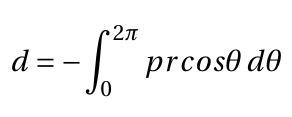
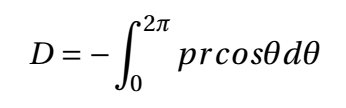
Experiment Updated

Changed region(s): [[0.0308, 0.1389, 0.4932, 0.8611], [0.4932, 0.3611, 0.9863, 0.6667]]

diff --git a/experiment/simulation/index.html b/experiment/simulation/index.html
@@ -38,6 +38,7 @@ LinkedIn: https://in.linkedin.com/in/akraonandula/
       <div class="row">
         <div class="col-md-1"></div>
         <div class="col-md-10">
+          <p class="text-center border border-3 border-primary p-3 h3 my-5 text-primary"> This simulation works best on Desktop / Laptop browsers only. It may not suitable for Mobile / Tablet browsers </h3>  </p>
             <p class="text-center"> <h3 class=" my-5 text-primary"> Instructions: </h3>
               <ul class="">
                 <li class="h5 text-secondary"> Before starting the process read the instructions completely</li>

diff --git a/experiment/procedure.md b/experiment/procedure.md
@@ -30,7 +30,7 @@
 ##### Fig.2 - Windtunnel with Diffuser, Test-section, VFD and Contraction cone highlighted.
 </center> 
 
-An open return low subsonic suction-type atmospheric wind tunnel generates the flow in which the model will be mounted. Wind tunnel components are a honeycomb section, a settling chamber, a contraction cone, a test section, a diffuser, a suction fan, and a motor. The air from the atmosphere enters the tunnel through the honeycomb section. Honeycomb reduces the turbulence from the atmosphere by breaking down the disturbances and stretching the flow due to its structure. The flow then goes through the settling chamber, which has two wire meshes, further reducing incoming turbulence. The settling chamber has a large volume which further dissipates any disturbances. The contraction cone increases the velocity by reducing area at the expense of pressure. There are two pressure tappings in the wind tunnel; one at the settling chamber, which gives stagnation or total pressure, and the second at the end of the contraction cone, which gives static pressure. The difference in these two pressure is used to calculate the inlet velocity of the test section. The test section is a constant cross-section area where we achieve a one-dimensional, steady, and uniform flow. Models are mounted in this part for the test. Diffuser has two functions: one, it reduces the velocity and increases the pressure leading to the suction fan, which results in less work required by the fan; and two, it provides a gradual decrease in velocity or increase in pressure after the test section, which prevents any flow separation and backflow. The suction fan creates the necessary pressure difference required to maintain the airflow. The fan is run by the motor, which can run at different rpm to create a range of velocity. The rpm of the motor is controlled by a variable frequency drive (VFD). 
+An open return, low subsonic, suction-type atmospheric wind tunnel generates the flow in which the model will be mounted. Wind tunnel components are a honeycomb section, a settling chamber, a contraction cone, a test section, a diffuser, a suction fan, and a motor. The air from the atmosphere enters the tunnel through the honeycomb section. Honeycomb reduces the turbulence from the atmosphere by breaking down the disturbances in the flow, due to its structure. The flow then goes through the settling chamber, which has two wire meshes, further reducing incoming turbulence. The settling chamber has a large volume, which further dissipates any disturbances. The contraction cone increases the velocity by reducing the area at the expense of pressure. There are two pressure tappings in the wind tunnel: one at the settling chamber, which gives stagnation or total pressure, and the second at the end of the contraction cone, which gives static pressure. The difference in these two pressures is used to calculate the inlet velocity of the test section. The test section is a constant cross-sectional area where we achieve a one-dimensional, steady, and uniform flow. Models are mounted in this part for the test. Diffuser has two functions: one, it reduces the velocity and increases the pressure leading to the suction fan, which results in less work required by the fan; and two, it provides a gradual decrease in velocity or increase in pressure after the test section, which prevents any flow separation and backflow. The suction fan creates the necessary pressure difference required to maintain the airflow. The fan is run by the motor, which can run at different rpm to create a range of velocities. The rpm of the motor is controlled by a variable frequency drive (VFD).  
 
   
 
@@ -46,7 +46,7 @@ An open return low subsonic suction-type atmospheric wind tunnel generates the f
 </center>
   
 
-A circular cylinder of diameter 30mm is used as the model for this experiment. The cylinder consists of one pressure port. It is placed in the test section and can be rotated at any required angle. The pressure port is connected to the pressure transducer, and the model is rotated to get values at different angles.
+A circular cylinder of diameter 30 mm is used as the model for this experiment. The cylinder consists of one pressure port. It is placed in the test section and can be rotated at any required angle. The pressure port is connected to the pressure transducer, and the model is rotated to get values at different angles.
 
   
 
@@ -63,12 +63,12 @@ A circular cylinder of diameter 30mm is used as the model for this experiment. T
 
   
 
-An electronic pressure measurement instrument is used to measure pressure coming from the cylinder model. Here we have used a Scanivalve-made digital sensor array (DSA 3217) which is a differential pressure measurement device; it has 16 temperature-compensated piezoresistive sensors with a pneumatic calibration valve, RAM, 16-bit A/D converter, and a microprocessor in a compact, self-contained module. It outputs pressure values in the user-defined engineering unit directly. We can measure 16 pressures simultaneously using this device. It uses an Ethernet connection for communication with any computer.
+An electronic pressure measurement instrument is used to measure pressure coming from the cylinder model. Here we have used a Scanivalve made digital sensor array (DSA 3217), which is a differential pressure measurement device; it has 16 temperature-compensated piezoresistive sensors with a pneumatic calibration valve, RAM, 16-bit A/D converter, and a microprocessor in a compact, self-contained module. It outputs pressure values in the user-defined engineering unit directly. We can measure 16 pressures simultaneously using this device. It uses an Ethernet connection for communication with any computer.
 
 
 ### Data acquisition system
 
-To operate DSA, a manufacturer-provided software DSALink is required. The software is run using a computer, where a user defines the necessary parameters like data rate, number of samples, and engineering unit. DSA is connected to a computer via ethernet using TCP/IP protocol.
+To operate DSA, a manufacturer-provided software DSALink is required. The software is run using a computer, where a user defines the necessary parameters like data rate, number of samples, and engineering unit. DSA is connected to a computer via Ethernet using TCP/IP protocol.
   
   
 
@@ -89,34 +89,32 @@ To operate DSA, a manufacturer-provided software DSALink is required. The softwa
 
 #### Steps
 
-1. Take dimensions of circular cylinder.
+1. Take the dimensions of the circular cylinder.
 
-2. Fix the circular cylinder in the wind tunnel with pressure port at ***180<sup>o</sup>*** i.e. leading edge facing the flow.
+2. Fix the circular cylinder in the wind tunnel with the pressure port corresponding to ***180<sup>o</sup>*** position, i.e., the port facing the freestream flow.
 
-3. Connect the reference port of the DSA3217 to the pressure port at the inlet of test section.
+3. Connect the reference port of the DSA3217 to the pressure port at the inlet of the test section.
 
-4. Connect the ports on DSA3217 with the circular cylinder using pneumatic tube. The reading at the connected port is now (***P<sub>&Theta;</sub> - P<sub>&#x221E;</sub>***).
+4. Connect the ports on DSA3217 with the circular cylinder using a pneumatic tube. The reading at the connected port is now  (***P<sub>&Theta;</sub> - P<sub>&#x221E;</sub>***).
 
-5. Connect a port on DSA3217 with the pressure port at the settling chamber using pneumatic tube. The reading at the connected port is now    (***P<sub>0</sub> - P<sub>&#x221E;</sub>***).
+5. Connect a port on DSA3217 with the pressure port at the settling chamber using a pneumatic tube. The reading at the connected port is now (***P<sub>0</sub> - P<sub>&#x221E;</sub>***).
 
-6. Zero calibrate the transducer, i.e., check the output is zero in no flow condition.
+6. Zero calibrate the transducer, i.e., check that the output is zero during the no-flow condition.
 
 7. Set a desired velocity in the wind tunnel using VFD.
 
-8.	Take the pressure measurements.
+8.	Take the pressure measurements for ***θ*** values ***+180<sup>o</sup>*** to ***-180<sup>o</sup>***.
 
-9.	The experiment can be repeated for different velocity to get readings for different Reynolds number.
+9.	The experiment can be repeated for different velocities to get readings for different Reynolds numbers.
 
-10.	Tabulate all the data and calculate ***C<sub>p</sub>*** and  ***C<sub>D</sub>*** using the equations.
+10.	Tabulate all the data and calculate  ***C<sub>p</sub>*** and  ***C<sub>D</sub>*** using the equations.
 
 #### Calculations
 
-   - From eq. (3) determine the experimental Coefficient of pressure, may call it as experimental value
-
-   - From eq. (4),determine the theoretical Coefficient of pressure.
-
-   - From eq. (5),determine the drag Coefficient.
+   - From eq. (3) determine the experimental Coefficient of pressure, which may be called as experimental value
+   - From eq. (4), determine the theoretical Coefficient of pressure.
+   - From eq. (5), determine the drag Coefficient.
 
 
-11. Plot graph for theoretical  and experimental Coefficient of pressure.
+11. Plot a graph for the theoretical and experimental Coefficient of pressure.
 

diff --git a/experiment/theory.md b/experiment/theory.md
@@ -95,7 +95,7 @@ The drag component of this force is the component acting in the direction of the
 <img  src='./images/eq6.png' style="width:10%">
 </center>
 
-The integral of this around the cylinder circumference gives the total drag on the cylinder per unit span d.
+The integral of this around the cylinder circumference gives the total drag on the cylinder per unit span D.
 <center>
 <img  src='./images/eq7.png' style="width:15%">
 </center>
